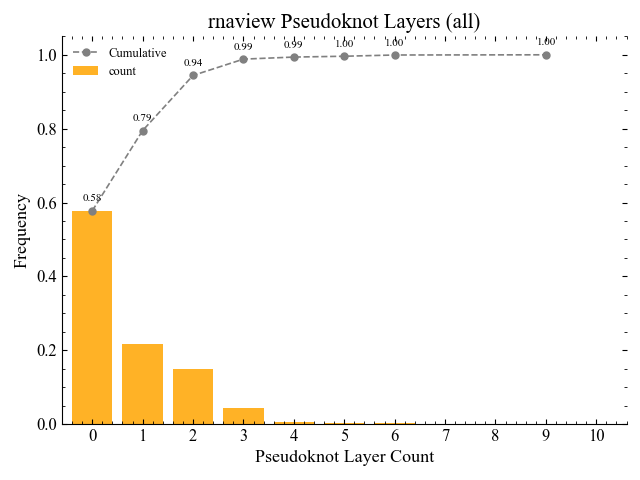
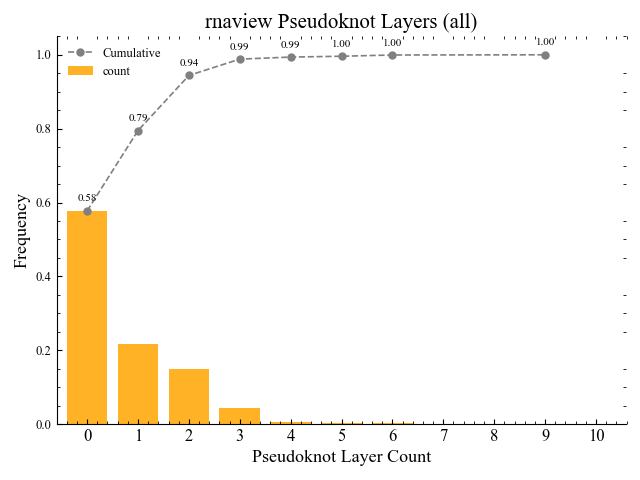
spine 削除中

diff --git a/analysis/pseudoknotlayer_plotting.py b/analysis/pseudoknotlayer_plotting.py
@@ -322,6 +322,10 @@ def main():
             cumulative = freq.cumsum()
             plt.figure()
             ax = freq.plot.bar(color="orange", alpha=0.85, width=0.8)
+            # 上・右の目盛り線/スパイン不要化
+            ax.tick_params(top=False, right=False)
+            ax.spines['top'].set_visible(False)
+            ax.spines['right'].set_visible(False)
             ax.set_xlabel('Pseudoknot Layer Count', fontsize=13)
             ax.set_xticks([int(x) for x in range(freq.index.max() + 1)])
             ax.set_xticklabels([int(x) for x in (range(freq.index.max() + 1))], rotation=0 , fontsize=12)
